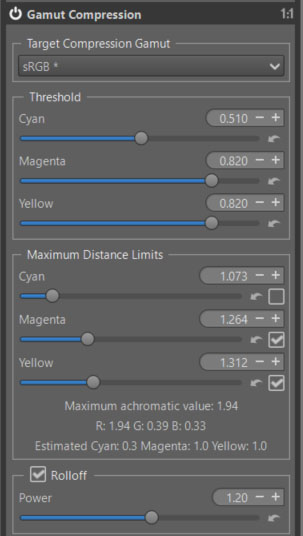
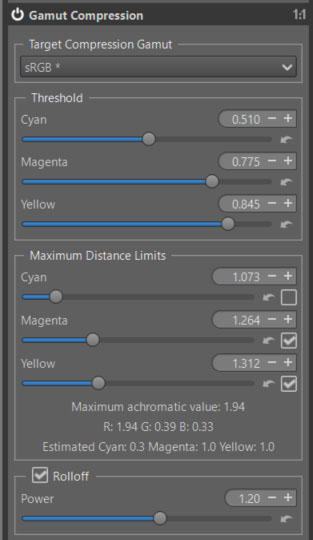
Various changes to tutorial

diff --git a/content/Tutorials/index.md b/content/Tutorials/index.md
@@ -19,6 +19,7 @@ This concept isn't about forcing you to change your image processing methods, bu
 * RT was conceived and created by a single man, Gabor Horvatz, in 2006. This is a fantastic achievement. However, this has consequences: the GUI interface has remained the same, prioritizing what was good, given the knowledge available at the time in 2006. 
 * Today, the powerful modules are scattered across the different Tabs, and for my part, I almost never use them (with the exception of 'Highlight reconstruction') in the first two 'Tabs'.
 * Other improvements have made some modules that were very good 10 years ago a little less so. I'm thinking of the excellent "Dynamic Range Compression" (which is mathematically complex), which is slow and resource-intensive...
+* A persistent problem, once you're no longer in Raw mode, is that the 'Preview', apart from 'fit to screen', is often different from the TIF/JPG output. Furthermore, the appearance varies significantly depending on the zoom level and the tools used. This is a pipeline design flaw... that hasn't been resolved (the consolation is that this problem, to varying degrees, is found in other software as well)... So you just have to live with it.
 * There are also the effects of fads; yesterday everyone was talking about "XXX", then "YYY"...and now "ZZZ", and since it's present elsewhere, why isn't it being developed in RT? This doesn't mean that "ZZZ" is better than "XXX".
 * RT also has the unique characteristic of employing certain specific algorithms or processing methods. People may like it or dislike it, criticize it or approve of it, and compare it to what exists elsewhere. Before condemning, compare apples to apples (you wouldn't compare a chicken and a fish). I'm referring in particular to: CIECAM, Auto WB temperature correlation, Selective Editing, Wavelets, Abstract Profiles, etc.
 
@@ -26,7 +27,7 @@ This concept isn't about forcing you to change your image processing methods, bu
 + Start processing an image with no settings other than the default ones in 'Neutral', to avoid any side effects.
 + Use the maximum possible range for Raw data, this means that: 
   - The Black Point at the beginning of processing should be as close as possible to what the sensor allows.
-  - The highest measurable values on the sensor must be recorded at the White Point. Furthermore, it is desirable to be able to recover, as best as possible, the data lost when values created by overexposure have saturated the sensor (see: Highlight reconstruction > Color Propagation)
+  - The highest measurable values on the sensor must be recorded at the White Point. Furthermore, it is desirable to be able to recover, as best as possible, the data lost when values created by overexposure have saturated the sensor (see: Highlight reconstruction > Color Propagation  - which, contrary to what its name suggests, also allows data to be retrieved in very low light conditions).
 + Finding the best color balance is crucial before starting any treatments. The longer you wait, the greater the risk of 'contaminating' other methods.
 + Make the most of the possibilities in Raw mode, whether it be the demosaicing method, the improvement of sharpness and noise treatment, the correction of black points and chromatic aberrations, etc.
 + Control (and compress if necessary) the gamut at the beginning and end of the process.
@@ -197,7 +198,7 @@ I chose "Camera" which seems to give a better result. During the Raw pre-process
 </figure>
 
 #### Color Propagation
-+ Observing the reaction of the modules mentioned in the recommendations, the contribution of "Color Propagation" is small, but not negligible. I'm leaving it enabled, but you could disable it.
++ Observing the reaction of the modules mentioned in the recommendations, the contribution of "Color Propagation" is small on the 'numbers', but not negligible. On the other hand, and this is its initial role, it allows the recovery of 'lost' data in highlight, but also in very low light.
   - [Recommandations](/tutorials/#recommendations)
 
 #### White Balance - Temperature correlation
@@ -218,10 +219,10 @@ I chose "Camera" which seems to give a better result. During the Raw pre-process
 + The automatic calculation always performs two passes: the first with the base results, and a second to try to get closer to D50, thus avoiding color adaptation (which can be done in "Automatic Symmetric" mode using Color Appearance & Lighting). The choice is up to the user. Among the criteria is the 'Correlation factor'; the smaller it is, the better. The other criterion is the 'Size', which is the number of colors found to be significant for comparison with the reference spectral colors (approximately 400). The larger the 'Size', the better.
 
 #### Gamut Compression
-+ As a reminder, this algorithm does not perform a "conversion," but compresses the data to the output profile (in linear mode, without gamma). It will ensure, at _a minima_, that the data will be within the gamut. Hence the importance of examining the histogram in mode 'gamma-corrected output profile'
++ As a reminder, this algorithm does not perform a "conversion" but compresses the data to the output profile (in linear mode, without gamma). It will ensure, at _a minima_, that the data will be within the gamut. Hence the importance of examining the histogram in mode 'gamma-corrected **output profile**'
 <figure>
 <img src="gamut-comp-1.jpg" title="gamut-comp-1.jpg" width="300" />
 <figcaption>Gamut Compression</figcaption>
 </figure>
 
-+ I only changed 'Maximum Distance Limits > Cyan', but you can try modifying all 3 'Threshold' values as well as 'Rolloff & Power'.
++ I made a few small changes to the default settings, but you can try modifying all 3 'Threshold' values as well as 'Rolloff & Power'.
